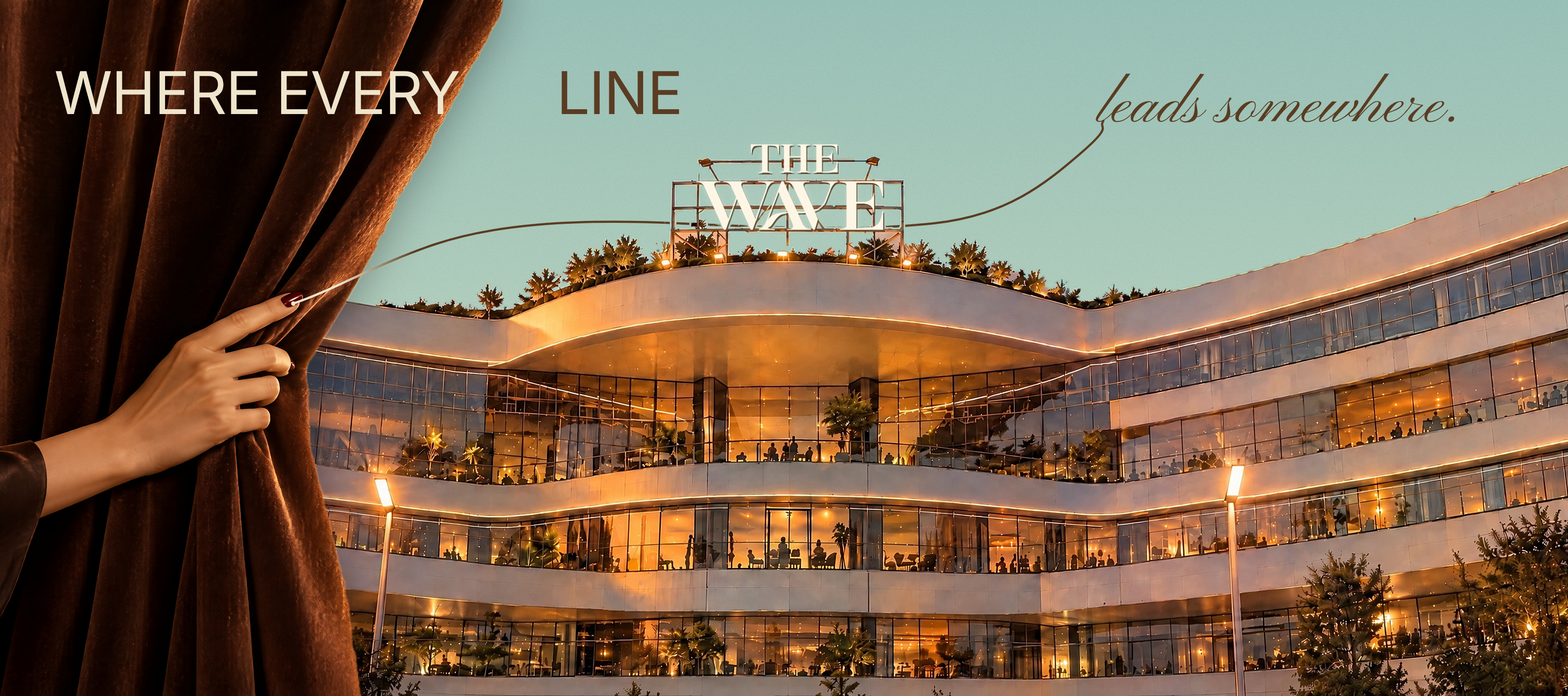
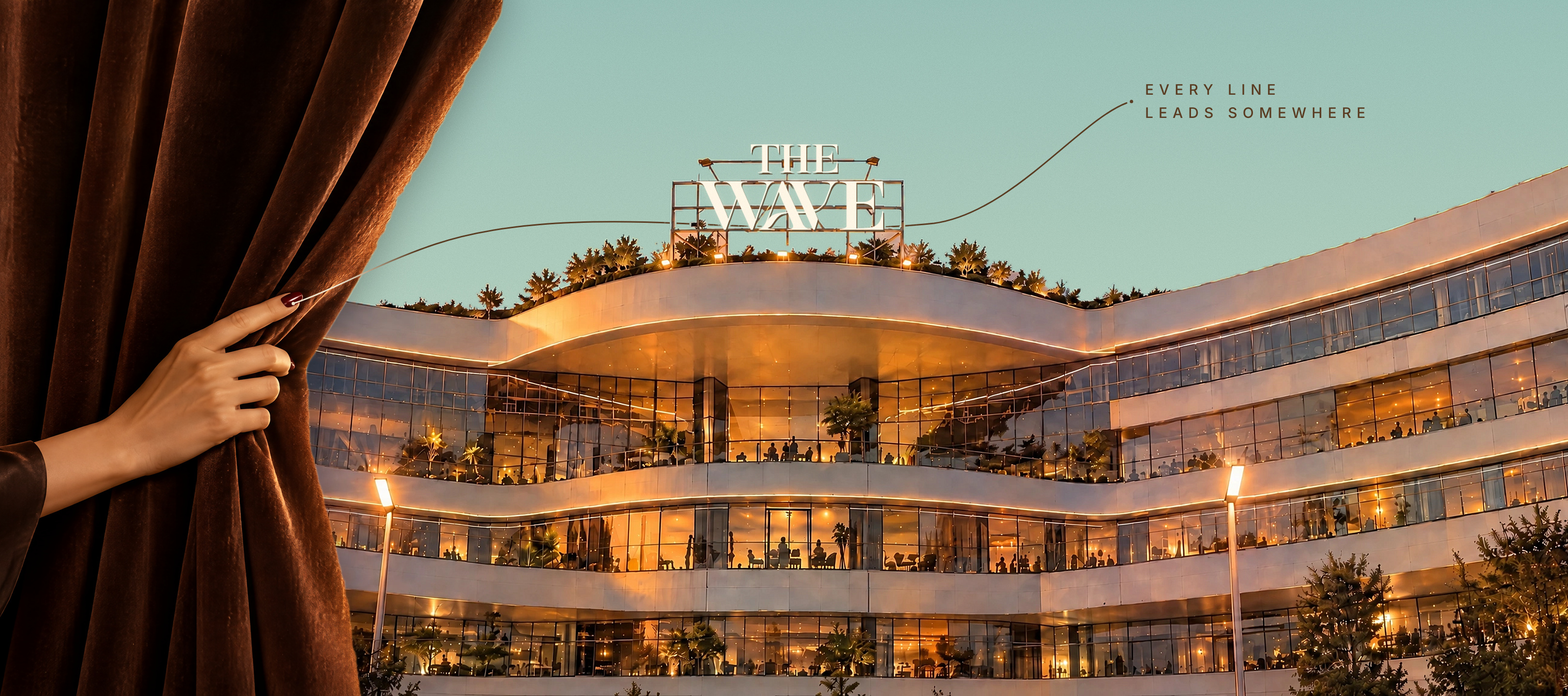
Instagram opening panorama: quieter text (whisper caption) and a no-text version
Claude-Session: https://claude.ai/code/session_0142AMHowNKcEFnnjpkxJwpv

diff --git a/instagram/grid-v4/GRID-GUIDE.md b/instagram/grid-v4/GRID-GUIDE.md
@@ -3,7 +3,8 @@
 The feed opens with one picture split across three posts, "Where every line leads somewhere."
 
 - A hand draws back the velvet curtain and reveals the real Wave at golden hour: the building and the rooftop THE WAVE sign are from our photograph of the mall, with the sky set to the brand mint.
-- One fine line starts at her fingertip, passes behind the rooftop sign, rises along the right wing, and turns into the handwritten *leads somewhere.*
+- One fine line starts at her fingertip, passes behind the rooftop sign and ends at a small caption in the sky: EVERY LINE / LEADS SOMEWHERE.
+- A version with no text and no line is in .
 
 Above the panorama sit the nine single posts, as a 3×3 grid.
 
@@ -24,9 +25,9 @@ Above the panorama sit the nine single posts, as a 3×3 grid.
 
 ## Text on each post
 
-1. **post-01 · right:** *leads somewhere.* (script)
-2. **post-02 · middle:** LINE, beside the real rooftop sign
-3. **post-03 · left:** WHERE EVERY
+1. **post-01 · right:** EVERY LINE / LEADS SOMEWHERE (small, widely spaced capitals)
+2. **post-02 · middle:** no text (the real rooftop sign)
+3. **post-03 · left:** no text (the curtain and the hand)
 4. **post-04 · the light is on:** THE LIGHT / IS ON, / *every evening.* · NORTH 90 · NEW CAIRO
 5. **The woman:** no text
 6. **Bags:** EVERYTHING YOU NEED, / *and more.* · THE WAVE
@@ -68,4 +69,4 @@ Hashtags on every post: `#TheWave #TheWaveMall #NewCairo #North90`
 - `posting-order.png`: the profile numbered in posting order
 - `the-wave-grid-hero.jpg`: the campaign image
 
-The panorama is our real golden-hour photograph of The Wave (sky changed to mint, rooftop wordmark from the vector logo), with the velvet curtain and hand made with Higgsfield and laid over it. All lettering and the line were set by hand, so the type is exact. The follower numbers on the profile are placeholders.
+The panorama is our real golden-hour photograph of The Wave (sky changed to mint, rooftop wordmark from the vector logo), with the velvet curtain and hand made with Higgsfield and laid over it. The caption and the line were set by hand, so the type is exact. The follower numbers on the profile are placeholders.
